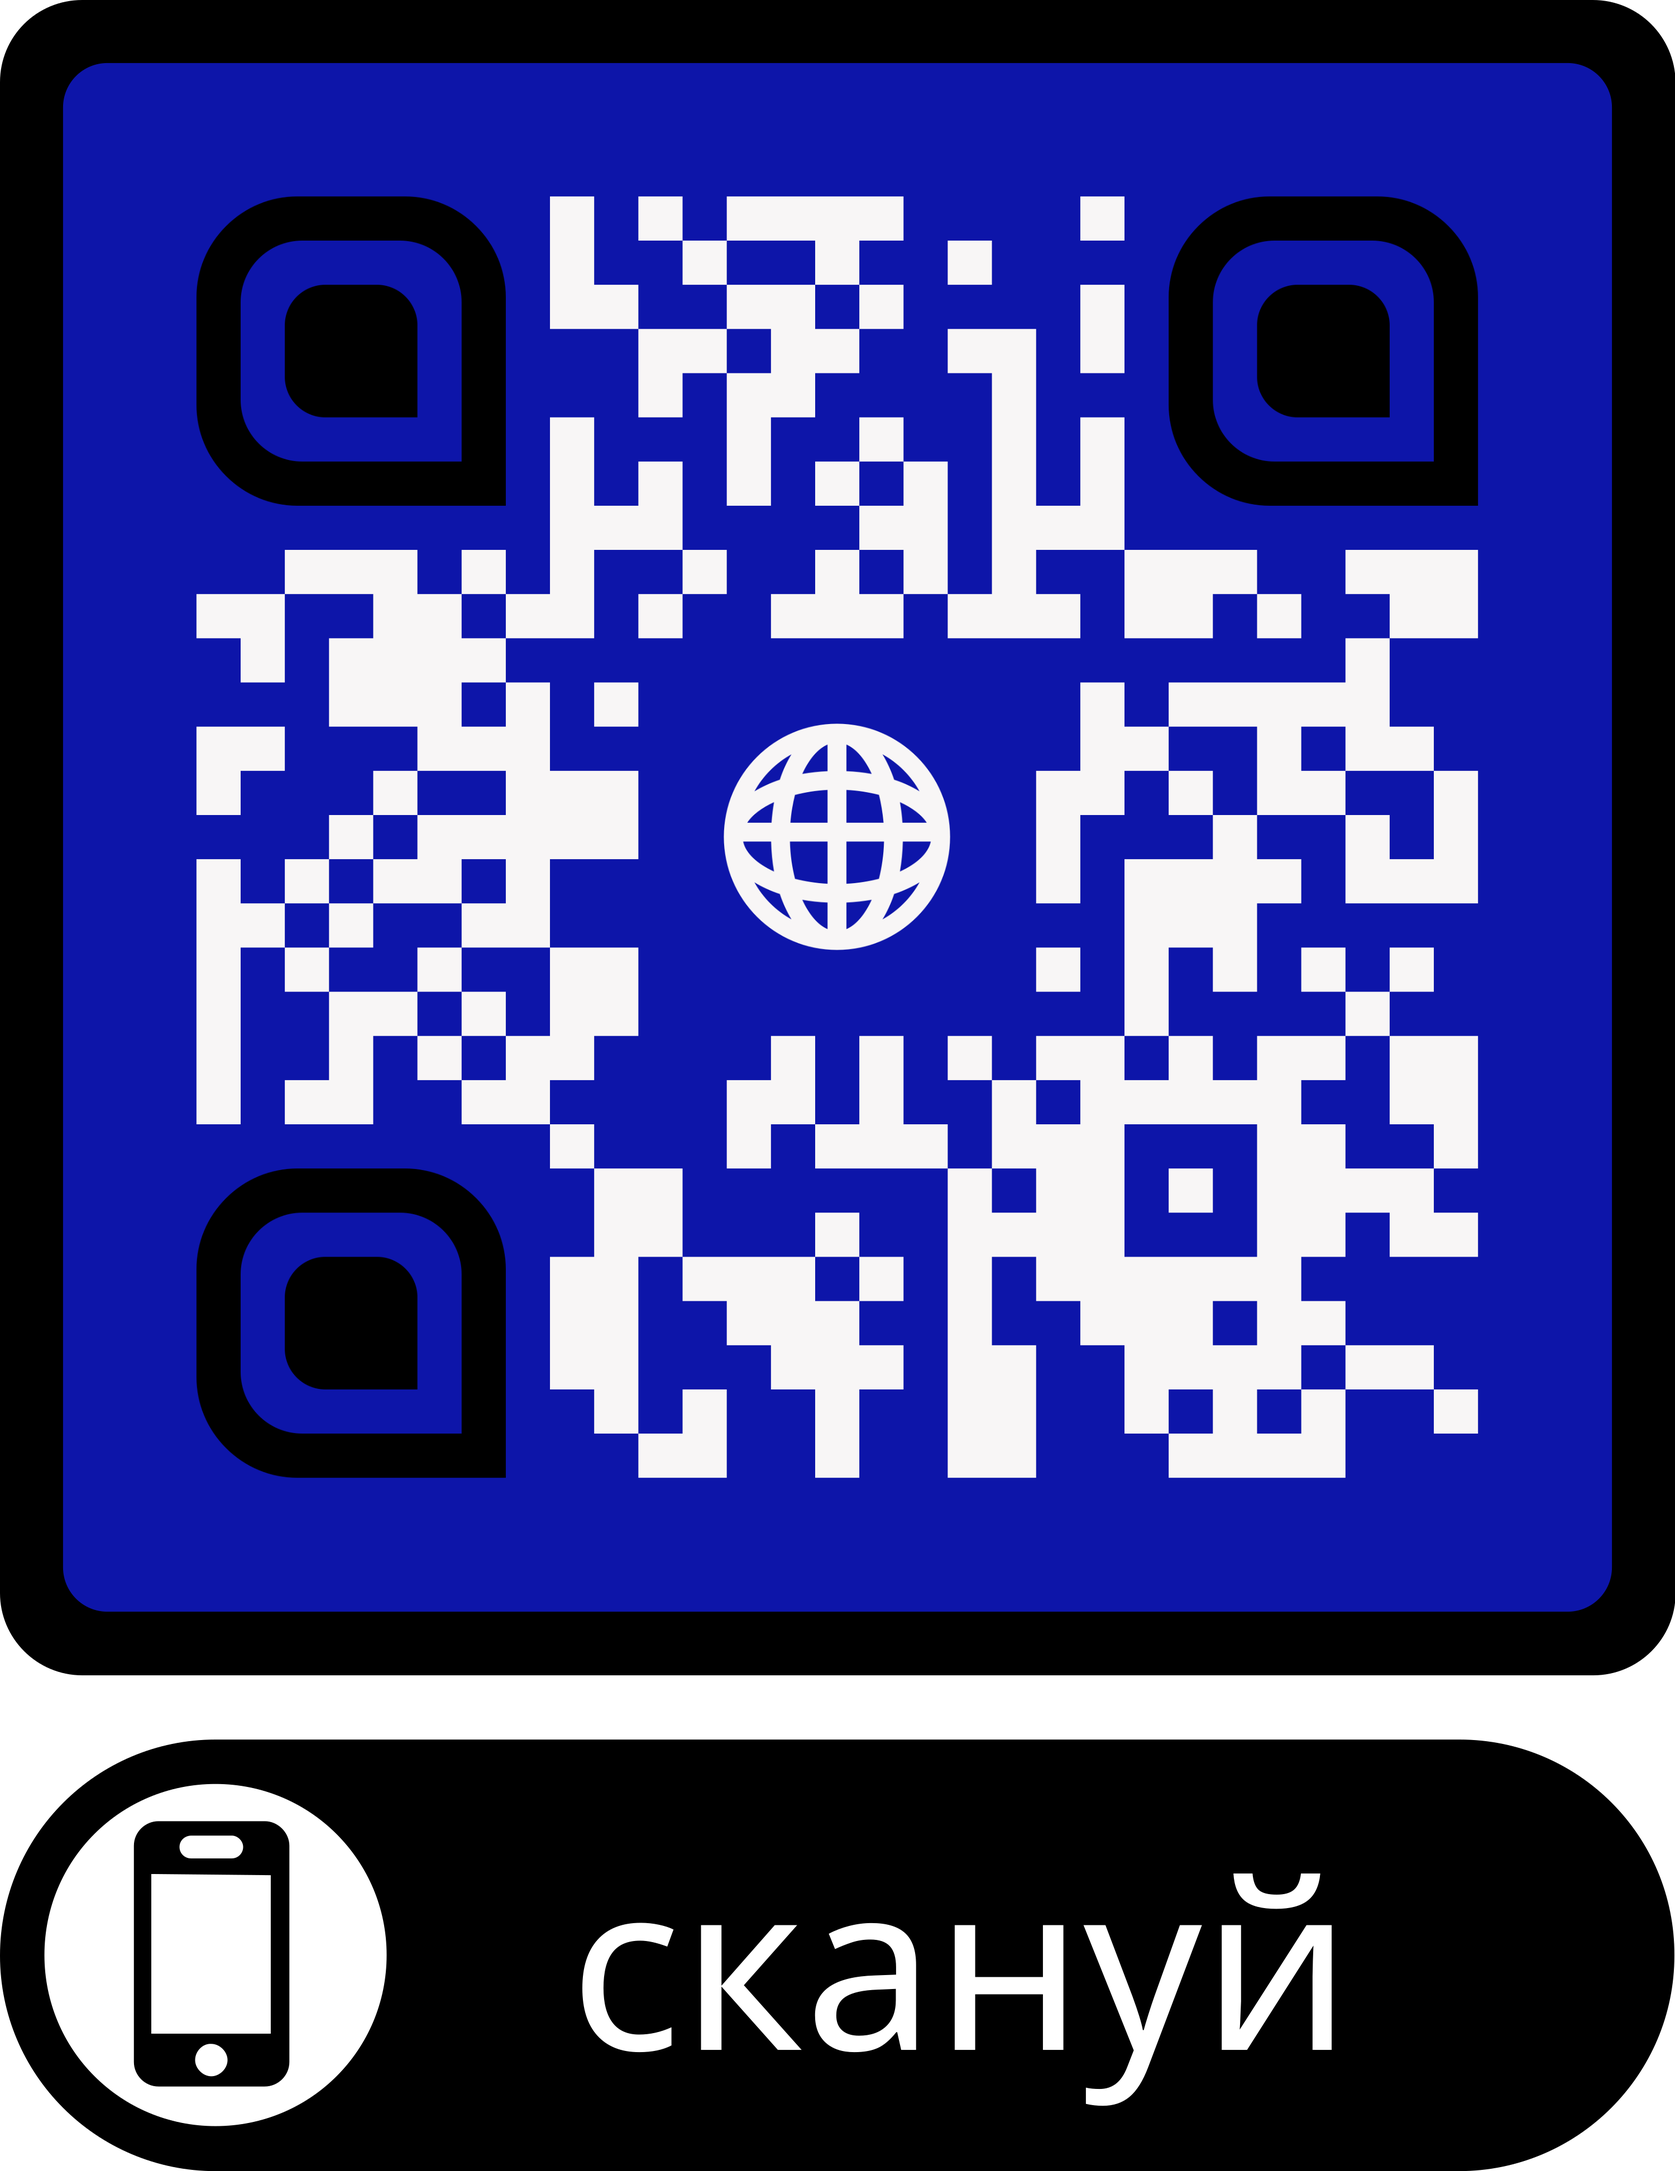
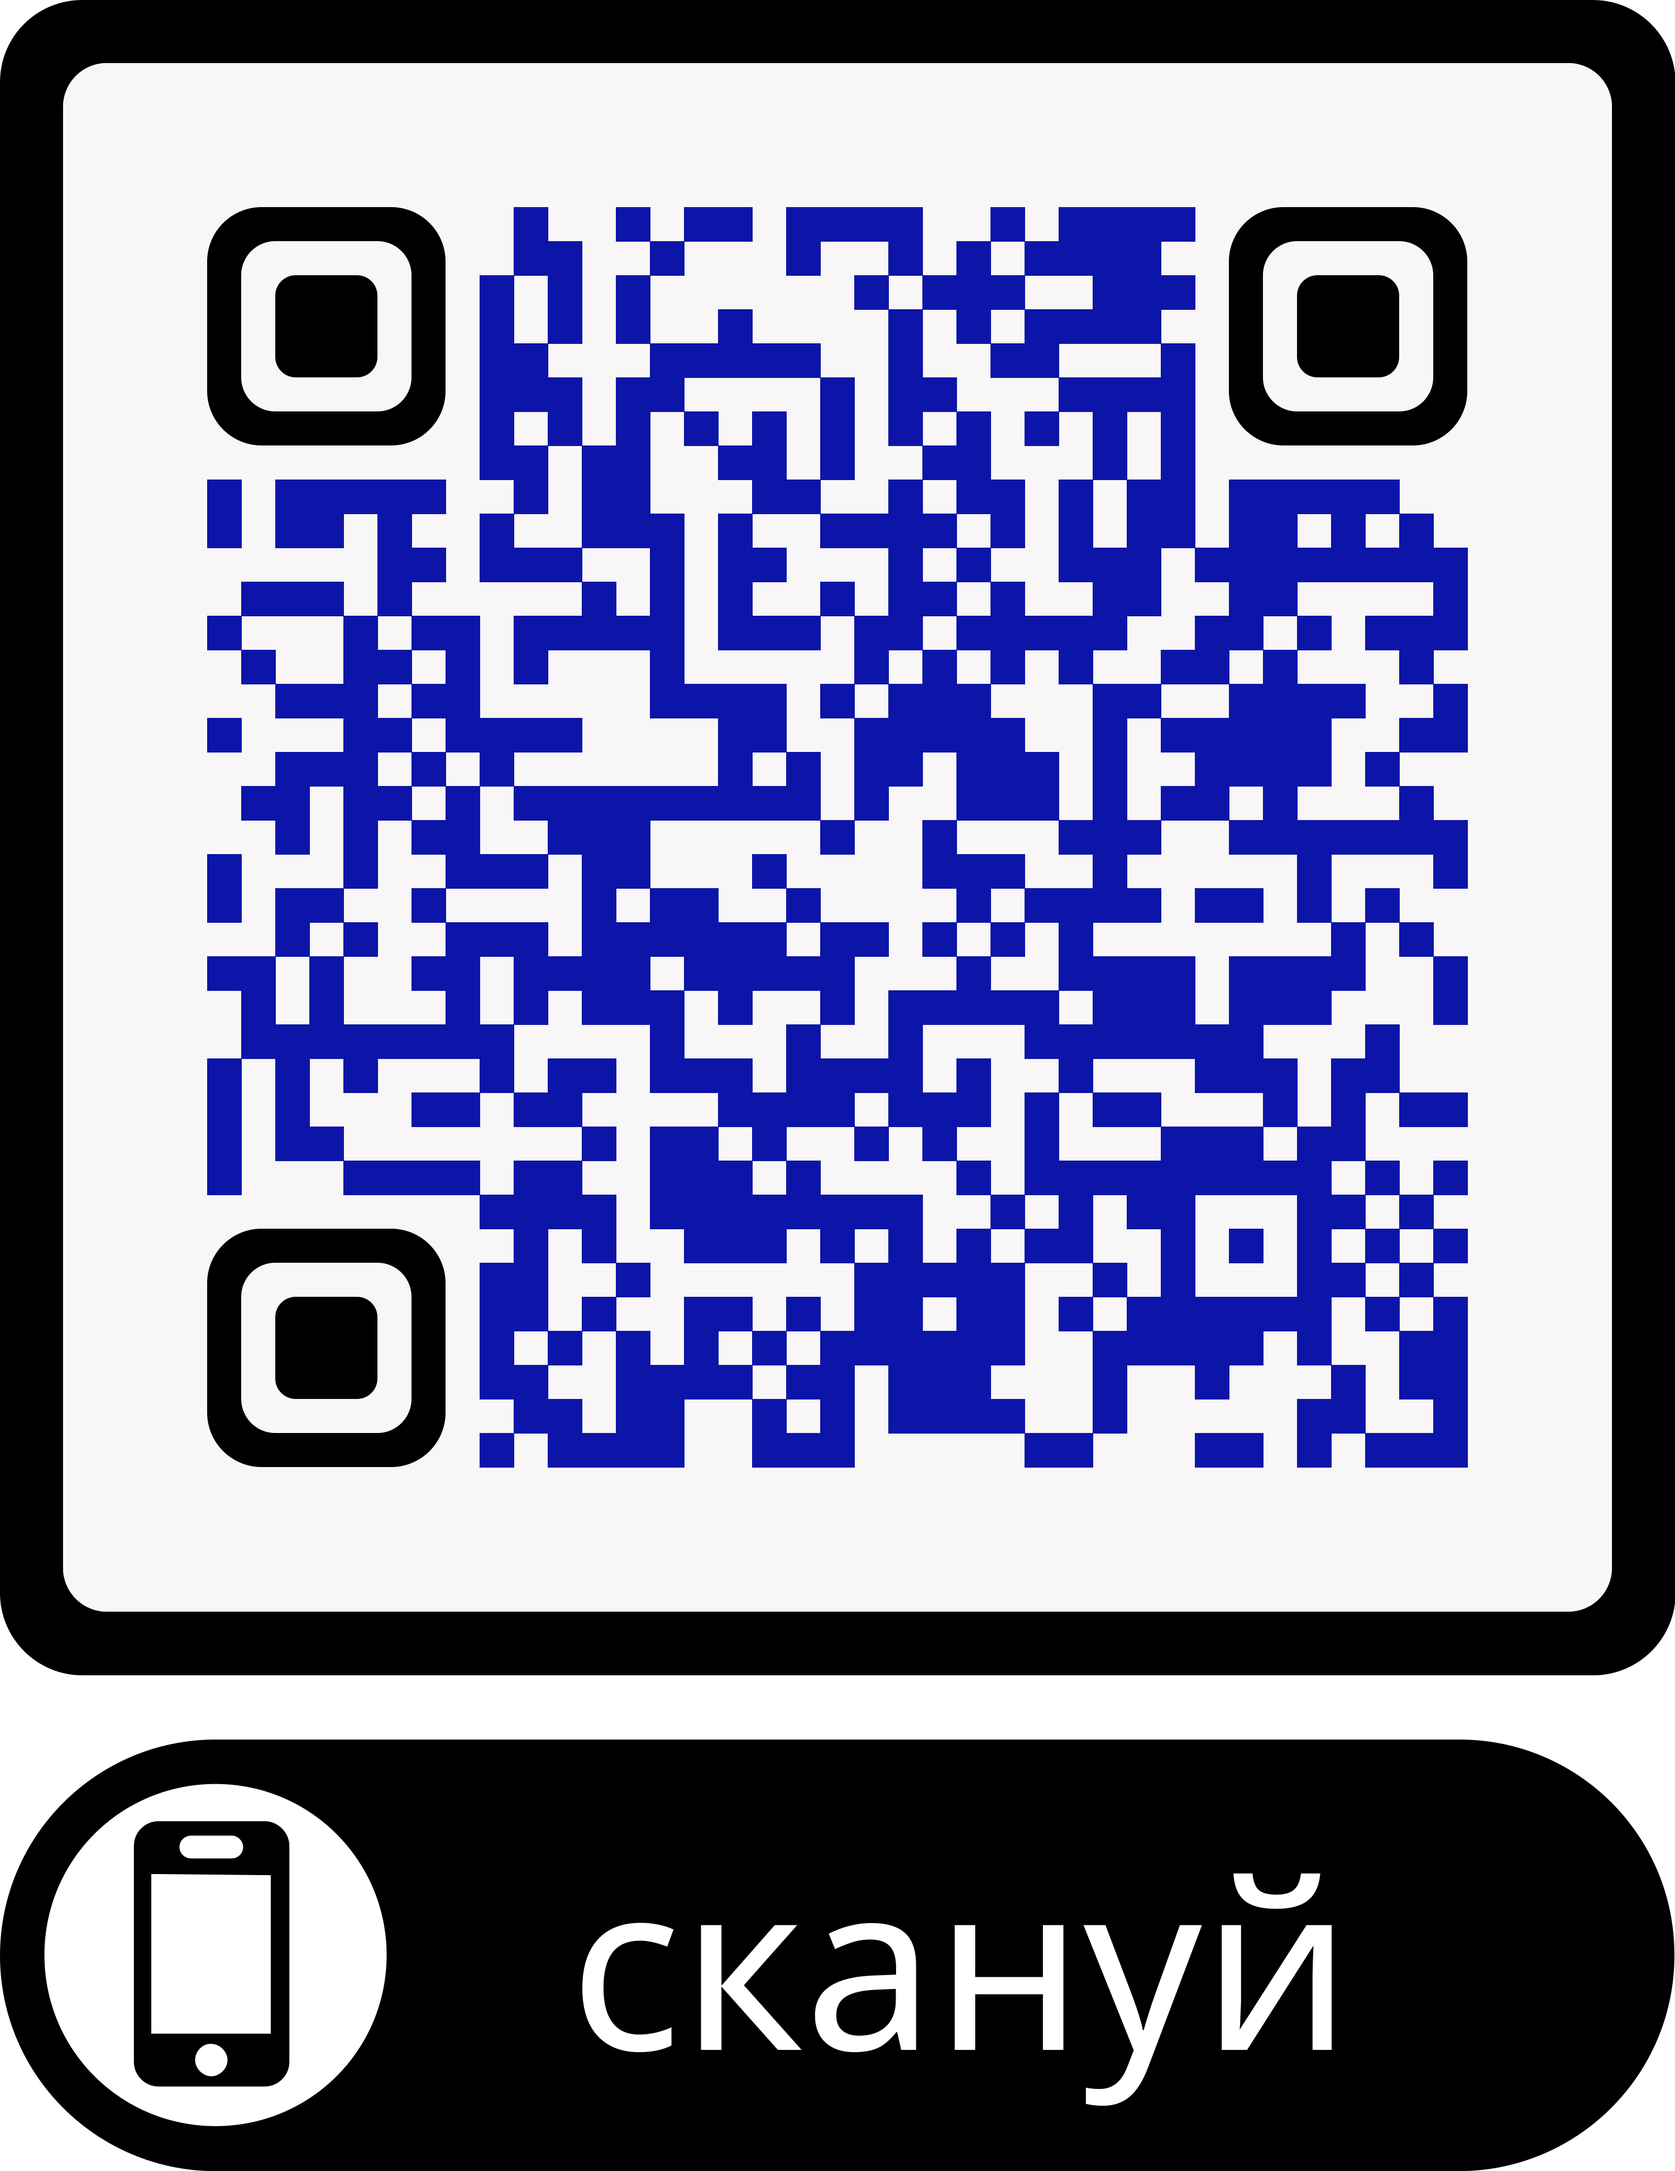
UI Rebuild + Add images

diff --git a/app/wp-content/themes/leaderauto/assets/src/css/sections/sections.css b/app/wp-content/themes/leaderauto/assets/src/css/sections/sections.css
@@ -9,7 +9,8 @@
 .band__body > * + * { margin-top: 0.5rem; }
 /* Pushed to the far end of the loyalty band, opposite the 10% figure. The PNG is
    transparent around a black frame, which reads on this section's dark gradient;
-   the code carries its own blue quiet zone, so it needs no plate behind it. */
+   the code (blue on light, static Google Drive URL) carries its own light quiet
+   zone, so it needs no plate behind it. */
 .band__qr {
 	margin-left: auto;
 	/* Nudged in off the container's right edge. CSS cm is a fixed 37.8px, not a
@@ -151,12 +152,14 @@
 	background-image: linear-gradient(-135deg, var(--c-brand) 16%, var(--c-white) 16%, var(--c-white) 100%);
 }
 
-/* Dealer guarantee band: photo sitting on the black-to-blue gradient. */
+/* Dealer guarantee band: photo sitting on the black-to-blue gradient. The white
+   wedge is scaled to 60% and pinned top-right — at full width its diagonal ran
+   through the heading and paragraph. */
 .section--guarantee {
 	background-image: var(--sec-bg), var(--grad-hero);
 	background-repeat: no-repeat;
-	background-size: contain, cover;
-	background-position: 50% 0%, 50% 50%;
+	background-size: 60% auto, cover;
+	background-position: 100% 0%, 50% 50%;
 	color: var(--c-white);
 }
 .section--guarantee h1,

diff --git a/app/wp-content/themes/leaderauto/assets/src/css/sections/showroom.css b/app/wp-content/themes/leaderauto/assets/src/css/sections/showroom.css
@@ -26,12 +26,13 @@
 	background: var(--c-surface);
 	overflow: hidden;
 }
-/* contain, not cover: byd-1.jpg is a collage and cover cuts it on the seams. */
+/* Model photos come in mixed ratios (4:3 … 2:1); cover fills the frame instead
+   of letterboxing, trimming the edges. */
 .showroom__media img,
 .showroom__thumb-media img {
 	width: 100%;
 	height: 100%;
-	object-fit: contain;
+	object-fit: cover;
 }
 
 .showroom__placeholder {

diff --git a/app/wp-content/themes/leaderauto/templates/page-dealer.php b/app/wp-content/themes/leaderauto/templates/page-dealer.php
@@ -38,16 +38,14 @@ $offers = array(
  * Showroom models, in display order. No prices on purpose — availability only.
  * 'image' is relative to assets/images/; a missing file renders the striped
  * placeholder, so dropping vehicles/<slug>.webp in place is enough to show it.
- * Seagull uses byd-1.jpg, a 1000×1000 collage of three angles — it must stay
- * object-fit: contain, cover cuts it along the collage seams.
- * TODO(content): real photos and descriptions from the client.
+ * TODO(content): descriptions from the client.
  */
 $models = array(
 	array( 'slug' => 'seal',      'name' => 'Seal',      'type' => __( 'Седан', 'leaderauto' ),            'in_stock' => true,  'image' => 'vehicles/seal.webp',      'text' => __( 'Електричний седан для щоденних поїздок і траси.', 'leaderauto' ) ),
 	array( 'slug' => 'sealion-7', 'name' => 'Sealion 7', 'type' => __( 'Кросовер', 'leaderauto' ),         'in_stock' => false, 'image' => 'vehicles/sealion-7.webp', 'text' => __( 'Просторий електричний кросовер для сім\'ї та далеких поїздок.', 'leaderauto' ) ),
 	array( 'slug' => 'leopard',   'name' => 'Leopard',   'type' => __( 'Позашляховик', 'leaderauto' ),     'in_stock' => false, 'image' => 'vehicles/leopard.webp',   'text' => __( 'Рамний позашляховик для тих, кому потрібне авто поза асфальтом.', 'leaderauto' ) ),
 	array( 'slug' => 'song-plus', 'name' => 'Song +',    'type' => __( 'Кросовер, гібрид', 'leaderauto' ), 'in_stock' => true,  'image' => 'vehicles/song-plus.webp', 'text' => __( 'Гібридний кросовер: електротяга в місті й запас ходу для поїздок.', 'leaderauto' ) ),
-	array( 'slug' => 'seagull',   'name' => 'Seagull',   'type' => __( 'Хетчбек', 'leaderauto' ),          'in_stock' => true,  'image' => 'byd-1.jpg',               'text' => __( 'Компактний міський хетчбек, зручний для парковки й коротких маршрутів.', 'leaderauto' ) ),
+	array( 'slug' => 'seagull',   'name' => 'Seagull',   'type' => __( 'Хетчбек', 'leaderauto' ),          'in_stock' => true,  'image' => 'vehicles/seagull.webp',   'text' => __( 'Компактний міський хетчбек, зручний для парковки й коротких маршрутів.', 'leaderauto' ) ),
 	array( 'slug' => 'dolphin',   'name' => 'Dolphin',   'type' => __( 'Хетчбек', 'leaderauto' ),          'in_stock' => false, 'image' => 'vehicles/dolphin.webp',   'text' => __( 'Практичний хетчбек з місткою кабіною для міста та області.', 'leaderauto' ) ),
 );
 ?>
@@ -134,7 +132,7 @@ $models = array(
 	<section class="section section--guarantee" style="--sec-bg: url('<?php echo esc_url( leaderauto_img( 'detailing-02.png' ) ); ?>');">
 		<div class="section__inner media-split">
 			<div class="media-split__media">
-				<img src="<?php echo esc_url( leaderauto_img( 'detailing-19.png' ) ); ?>" alt="<?php esc_attr_e( 'Гарантія на роботи LeaderAuto', 'leaderauto' ); ?>" loading="lazy">
+				<img src="<?php echo esc_url( leaderauto_img( 'detailing-19.webp' ) ); ?>" alt="<?php esc_attr_e( 'Гарантія на роботи LeaderAuto', 'leaderauto' ); ?>" loading="lazy">
 			</div>
 			<div class="media-split__body">
 				<h2 class="section__title"><?php esc_html_e( 'Відповідаємо за результат', 'leaderauto' ); ?></h2>

diff --git a/docs/architecture.md b/docs/architecture.md
@@ -103,8 +103,9 @@ token + chat id are set; if both channels fail → `502`. Delivery targets come 
 | Dealer | reference page 15 — **~90% Divi demo** | not carried over; minimal real page (BYD sales/test-drive + real media). **Needs real content from the client.** |
 | Contacts | reference page 13 — real | form → REST endpoint; demo e-mail `hello@divicardetailing.com` omitted |
 
-Real media copied into `assets/images/` (`logo.png`, `byd.jpg`, `byd-1.jpg`, `icon.jpg`,
-`promo.mp4`, `sea-lion-08-debut.mp4`). Stock "Car Detailing" photos are not used.
+Real media copied into `assets/images/` (`logo.png`, `byd.jpg`, `icon.jpg`,
+`promo.mp4`, `sea-lion-08-debut.mp4`). Dealer showroom model photos live in
+`assets/images/vehicles/<slug>.webp`. Stock "Car Detailing" photos are not used.
 
 ## Deploy
 
